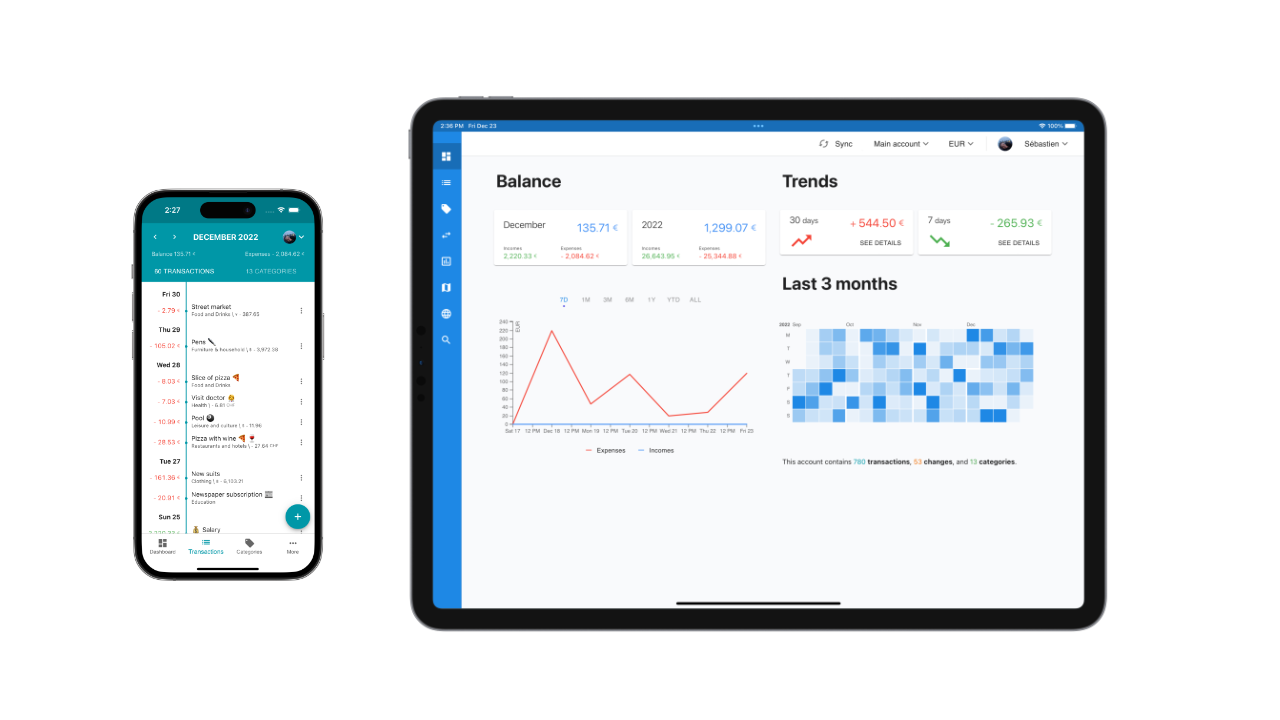
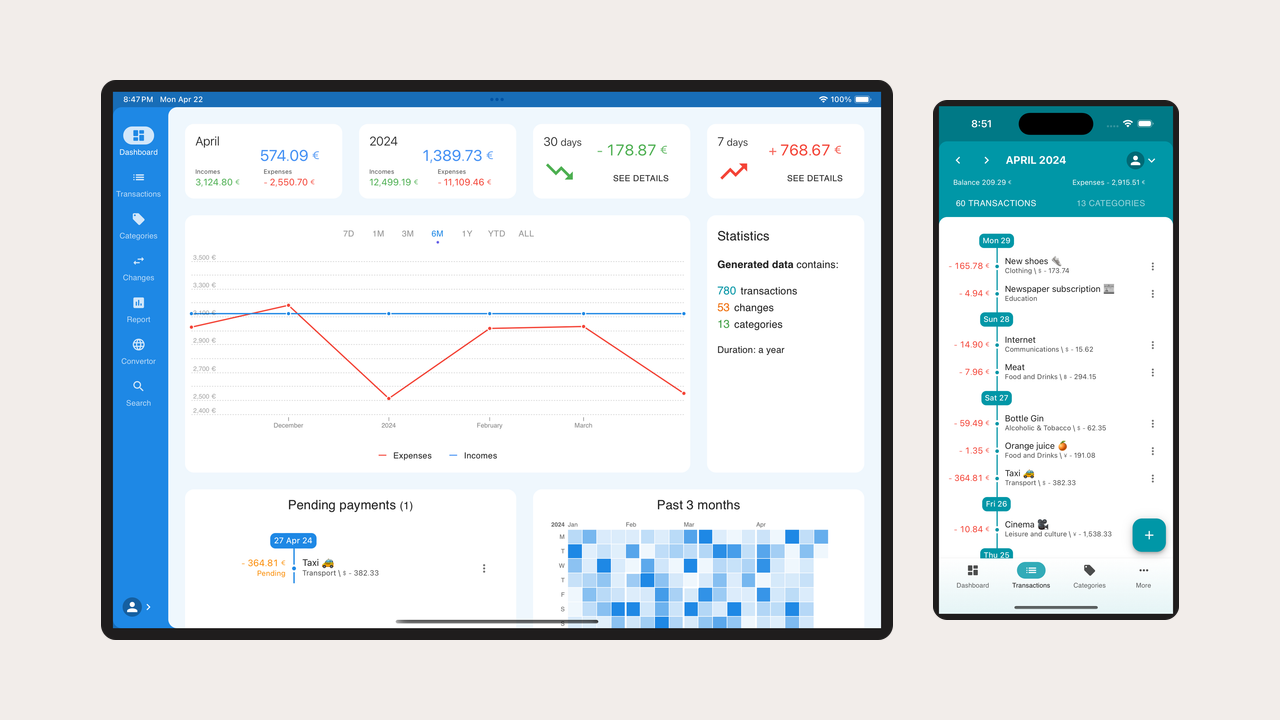
Update seven23 screenshots

diff --git a/src/app/projects/seven23/seven23.component.html b/src/app/projects/seven23/seven23.component.html
@@ -25,23 +25,55 @@
       <dd><a href="https://seven23.io">seven23.io</a></dd>
     </dl>
 
-    <div class="two_tablets_two_mobiles">
-      <picture class="tablet_landscape">
-        <source type="image/webp" srcset="/assets/images/seven23/screens/1-dashboard.webp" />
-        <img src="/assets/images/seven23/screens/1-dashboard.png" width="1600" height="1235" loading="lazy" alt="Seven23 dashboard on tablet" />
-      </picture>
-      <picture class="mobile_portrait">
-        <source type="image/webp" srcset="/assets/images/seven23/screens/7-transactions.webp" />
-        <img src="/assets/images/seven23/screens/7-transactions.png" width="450" height="900" loading="lazy" alt="Seven23 transactions list on mobile" />
-      </picture>
-      <picture class="tablet_portrait">
-        <source type="image/webp" srcset="/assets/images/seven23/screens/5-report.webp" />
-        <img src="/assets/images/seven23/screens/5-report.png" width="938" height="1200" loading="lazy" alt="Seven23 spending report on tablet" />
-      </picture>
-      <picture class="mobile_rotated">
-        <source type="image/webp" srcset="/assets/images/seven23/screens/9-changes.webp" />
-        <img src="/assets/images/seven23/screens/9-changes.png" width="450" height="900" loading="lazy" alt="Seven23 change history on mobile" />
-      </picture>
+    <div class="devices">
+      <div class="device phone">
+        <picture>
+          <source type="image/webp" srcset="/assets/images/seven23/screens/iphone-transactions.webp" />
+          <img src="/assets/images/seven23/screens/iphone-transactions.png" width="1179" height="2556" loading="lazy" alt="Seven23 transactions list on iPhone" />
+        </picture>
+      </div>
+      <div class="device tablet">
+        <picture>
+          <source type="image/webp" srcset="/assets/images/seven23/screens/ipad-dashboard.webp" />
+          <img src="/assets/images/seven23/screens/ipad-dashboard.png" width="2388" height="1668" loading="lazy" alt="Seven23 dashboard on iPad" />
+        </picture>
+      </div>
+      <div class="device tablet">
+        <picture>
+          <source type="image/webp" srcset="/assets/images/seven23/screens/ipad-categories.webp" />
+          <img src="/assets/images/seven23/screens/ipad-categories.png" width="2388" height="1668" loading="lazy" alt="Seven23 categories on iPad" />
+        </picture>
+      </div>
+      <div class="device phone">
+        <picture>
+          <source type="image/webp" srcset="/assets/images/seven23/screens/iphone-report.webp" />
+          <img src="/assets/images/seven23/screens/iphone-report.png" width="1179" height="2556" loading="lazy" alt="Seven23 spending report on iPhone" />
+        </picture>
+      </div>
+      <div class="device phone">
+        <picture>
+          <source type="image/webp" srcset="/assets/images/seven23/screens/iphone-changes.webp" />
+          <img src="/assets/images/seven23/screens/iphone-changes.png" width="1179" height="2556" loading="lazy" alt="Seven23 currency list on iPhone" />
+        </picture>
+      </div>
+      <div class="device tablet">
+        <picture>
+          <source type="image/webp" srcset="/assets/images/seven23/screens/ipad-search.webp" />
+          <img src="/assets/images/seven23/screens/ipad-search.png" width="2388" height="1668" loading="lazy" alt="Seven23 search on iPad" />
+        </picture>
+      </div>
+      <div class="device tablet">
+        <picture>
+          <source type="image/webp" srcset="/assets/images/seven23/screens/ipad-changes.webp" />
+          <img src="/assets/images/seven23/screens/ipad-changes.png" width="2388" height="1668" loading="lazy" alt="Seven23 currency changes on iPad" />
+        </picture>
+      </div>
+      <div class="device phone">
+        <picture>
+          <source type="image/webp" srcset="/assets/images/seven23/screens/iphone-settings.webp" />
+          <img src="/assets/images/seven23/screens/iphone-settings.png" width="1179" height="2556" loading="lazy" alt="Seven23 settings on iPhone" />
+        </picture>
+      </div>
     </div>
 
     <div class="full_stack">

diff --git a/scripts/optimize-images.js b/scripts/optimize-images.js
@@ -2,6 +2,7 @@
 /**
  * Resize oversized screenshots and write WebP (+ JPEG or PNG fallback).
  * PNGs with alpha stay PNG (JPEG would paint a black background).
+ * UI screenshots can pass { lossless: true } to keep PNG + lossless WebP.
  * Run: pnpm run optimize:images
  */
 const path = require('path');
@@ -17,10 +18,14 @@ const jobs = [
   { rel: 'images/mozilla/galery_2_list.1800.jpg', max: 1800 },
   { rel: 'images/mozilla/galery_3_note.1800.jpg', max: 1800 },
   { rel: 'images/mozilla/galery_4_app.1800.jpg', max: 1800 },
-  { rel: 'images/seven23/screens/1-dashboard.png', max: 1600 },
-  { rel: 'images/seven23/screens/7-transactions.png', max: 900 },
-  { rel: 'images/seven23/screens/5-report.png', max: 1200 },
-  { rel: 'images/seven23/screens/9-changes.png', max: 900 },
+  { rel: 'images/seven23/screens/ipad-dashboard.png', max: 2400, lossless: true },
+  { rel: 'images/seven23/screens/ipad-categories.png', max: 2400, lossless: true },
+  { rel: 'images/seven23/screens/ipad-changes.png', max: 2400, lossless: true },
+  { rel: 'images/seven23/screens/ipad-search.png', max: 2400, lossless: true },
+  { rel: 'images/seven23/screens/iphone-transactions.png', max: 2400, lossless: true },
+  { rel: 'images/seven23/screens/iphone-report.png', max: 2400, lossless: true },
+  { rel: 'images/seven23/screens/iphone-changes.png', max: 2400, lossless: true },
+  { rel: 'images/seven23/screens/iphone-settings.png', max: 2400, lossless: true },
   { rel: 'images/fromedwin/screenshots/dashboard.png', max: 1200 },
   { rel: 'images/fromedwin/screenshots/availability.png', max: 1200 },
   { rel: 'images/fromedwin/screenshots/report.png', max: 1200 },
@@ -35,7 +40,7 @@ const jobs = [
   { rel: 'images/ressources/sebastienbarbier_profile_1024.jpg', max: 1024 },
 ];
 
-async function optimize({ rel, max }) {
+async function optimize({ rel, max, lossless }) {
   const inputPath = path.join(root, rel);
   if (!fs.existsSync(inputPath)) {
     console.warn('skip missing', rel);
@@ -45,7 +50,7 @@ async function optimize({ rel, max }) {
   const before = fs.statSync(inputPath).size;
   const meta = await sharp(inputPath).metadata();
   const ext = path.extname(inputPath).toLowerCase();
-  const keepPng = ext === '.png' && meta.hasAlpha;
+  const keepPng = lossless || (ext === '.png' && meta.hasAlpha);
   const outExt = keepPng ? '.png' : (ext === '.png' ? '.jpg' : ext);
   const base = inputPath.slice(0, -ext.length);
   const outPath = `${base}${outExt}`;
@@ -68,10 +73,6 @@ async function optimize({ rel, max }) {
   }
   fs.renameSync(tmpPath, outPath);
 
-  // Drop stale JPEG fallback if we restored a transparent PNG
-  if (keepPng && outPath !== inputPath) {
-    /* same path */
-  }
   if (keepPng) {
     const staleJpg = `${base}.jpg`;
     if (fs.existsSync(staleJpg)) fs.unlinkSync(staleJpg);
@@ -79,9 +80,10 @@ async function optimize({ rel, max }) {
     fs.unlinkSync(inputPath);
   }
 
-  await sharp(outPath)
-    .webp({ quality: 78, effort: 4, alphaQuality: 90 })
-    .toFile(webpPath);
+  const webpOpts = lossless
+    ? { lossless: true, effort: 4 }
+    : { quality: 78, effort: 4, alphaQuality: 90 };
+  await sharp(outPath).webp(webpOpts).toFile(webpPath);
 
   const after = fs.statSync(outPath).size;
   const webp = fs.statSync(webpPath).size;

diff --git a/src/app/shared/projects/projects.component.scss b/src/app/shared/projects/projects.component.scss
@@ -74,6 +74,69 @@ ul.projects {
         -webkit-touch-callout: none;
       }
 
+      &.devices {
+        box-sizing: border-box;
+        justify-content: center;
+        align-items: center;
+        gap: 28px;
+        height: 300px;
+        min-height: 300px;
+        padding: 24px 16px;
+
+        .device {
+          box-sizing: border-box;
+          z-index: 10;
+          flex: 0 0 auto;
+          background: #161514;
+          overflow: hidden;
+          border: 1px solid rgba(255, 255, 255, 0.22);
+          box-shadow:
+            inset 0 0 0 0.5px rgba(255, 255, 255, 0.18),
+            0 1px 1px rgba(255, 255, 255, 0.08),
+            0 10px 28px rgba(22, 22, 29, 0.12);
+
+          picture {
+            display: block;
+            line-height: 0;
+          }
+
+          picture img {
+            display: block;
+            width: 100%;
+            height: auto;
+            max-width: 100%;
+            max-height: none;
+          }
+        }
+
+        .tablet {
+          width: 58%;
+          max-width: 300px;
+          padding: 2.5px;
+          border-radius: 12px;
+
+          picture img {
+            border-radius: 10px;
+          }
+        }
+
+        .phone {
+          width: 18%;
+          max-width: 92px;
+          padding: 2.5px;
+          border-radius: 18px;
+
+          picture img {
+            border-radius: 16px;
+          }
+        }
+
+        .logo {
+          width: 40px;
+          max-height: none;
+        }
+      }
+
       &.browser {
         box-sizing: border-box;
         justify-content: center;

diff --git a/src/app/projects/seven23/seven23.component.scss b/src/app/projects/seven23/seven23.component.scss
@@ -26,31 +26,70 @@ span.censored {
     }
 }
 
-.two_tablets_two_mobiles {
-  position: relative;
-
+.devices {
   display: flex;
   flex-wrap: wrap;
-
   align-items: center;
   justify-content: space-around;
+  gap: 48px 0;
+  width: 100%;
+  margin-top: 40px;
+}
 
-  .tablet_landscape {
-      width: 50%;
-  }
-  .tablet_portrait {
-      width: 50%;
-  }
-  .mobile_portrait {
-      width: 25%;
-  }
-  .mobile_rotated {
-      width: 25%;
-  }
+.device {
+  box-sizing: border-box;
+  background: #161514;
+  overflow: hidden;
+  border: 1px solid rgba(255, 255, 255, 0.22);
+  box-shadow:
+    inset 0 0 0 0.5px rgba(255, 255, 255, 0.18),
+    0 1px 1px rgba(255, 255, 255, 0.08),
+    0 10px 28px rgba(22, 22, 29, 0.12);
 
-  picture img {
+  picture,
+  img {
+    display: block;
     width: 100%;
     height: auto;
-    display: block;
+  }
+
+  &.tablet {
+    width: 62%;
+    padding: 3px;
+    border-radius: 16px;
+
+    picture,
+    img {
+      border-radius: 13px;
+    }
+  }
+
+  &.phone {
+    width: 22%;
+    padding: 3px;
+    border-radius: 28px;
+
+    picture,
+    img {
+      border-radius: 25px;
+    }
+  }
+
+  @include for-tablet-landscape-down {
+    &.tablet {
+      width: 64%;
+    }
+    &.phone {
+      width: 28%;
+    }
+  }
+
+  @include for-phone-only {
+    &.tablet {
+      width: 100%;
+    }
+    &.phone {
+      width: 52%;
+    }
   }
 }

diff --git a/src/app/shared/projects/projects.component.html b/src/app/shared/projects/projects.component.html
@@ -23,11 +23,19 @@
     <a routerLink="/projects/shellui" role="button">More about it</a>
   </li>
   <li>
-    <div class="thumbnail">
-      <picture>
-        <source type="image/webp" srcset="/assets/images/seven23/seven23_layout.webp" />
-        <img src="/assets/images/seven23/seven23_layout.png" width="1280" height="720" loading="lazy" alt="Seven23 screenshots"/>
-      </picture>
+    <div class="thumbnail devices">
+      <div class="device phone">
+        <picture>
+          <source type="image/webp" srcset="/assets/images/seven23/screens/iphone-transactions.webp" />
+          <img src="/assets/images/seven23/screens/iphone-transactions.png" width="1179" height="2556" loading="lazy" alt="Seven23 transactions on iPhone"/>
+        </picture>
+      </div>
+      <div class="device tablet">
+        <picture>
+          <source type="image/webp" srcset="/assets/images/seven23/screens/ipad-dashboard.webp" />
+          <img src="/assets/images/seven23/screens/ipad-dashboard.png" width="2388" height="1668" loading="lazy" alt="Seven23 dashboard on iPad"/>
+        </picture>
+      </div>
       <img src="/assets/images/seven23/seven23_logo.svg" alt="Seven23 logo" class="logo"/>
     </div>
     <h3><span>2011 - Present</span> Seven23</h3>

diff --git a/src/app/projects/projects.include.component.scss b/src/app/projects/projects.include.component.scss
@@ -32,7 +32,8 @@ img {
       grid-row: 2 / span 2;
     }
 
-    div.two_tablets_two_mobiles {
+    div.two_tablets_two_mobiles,
+    div.devices {
       grid-row: 3;
       grid-column: 1 / span 4;
     }
